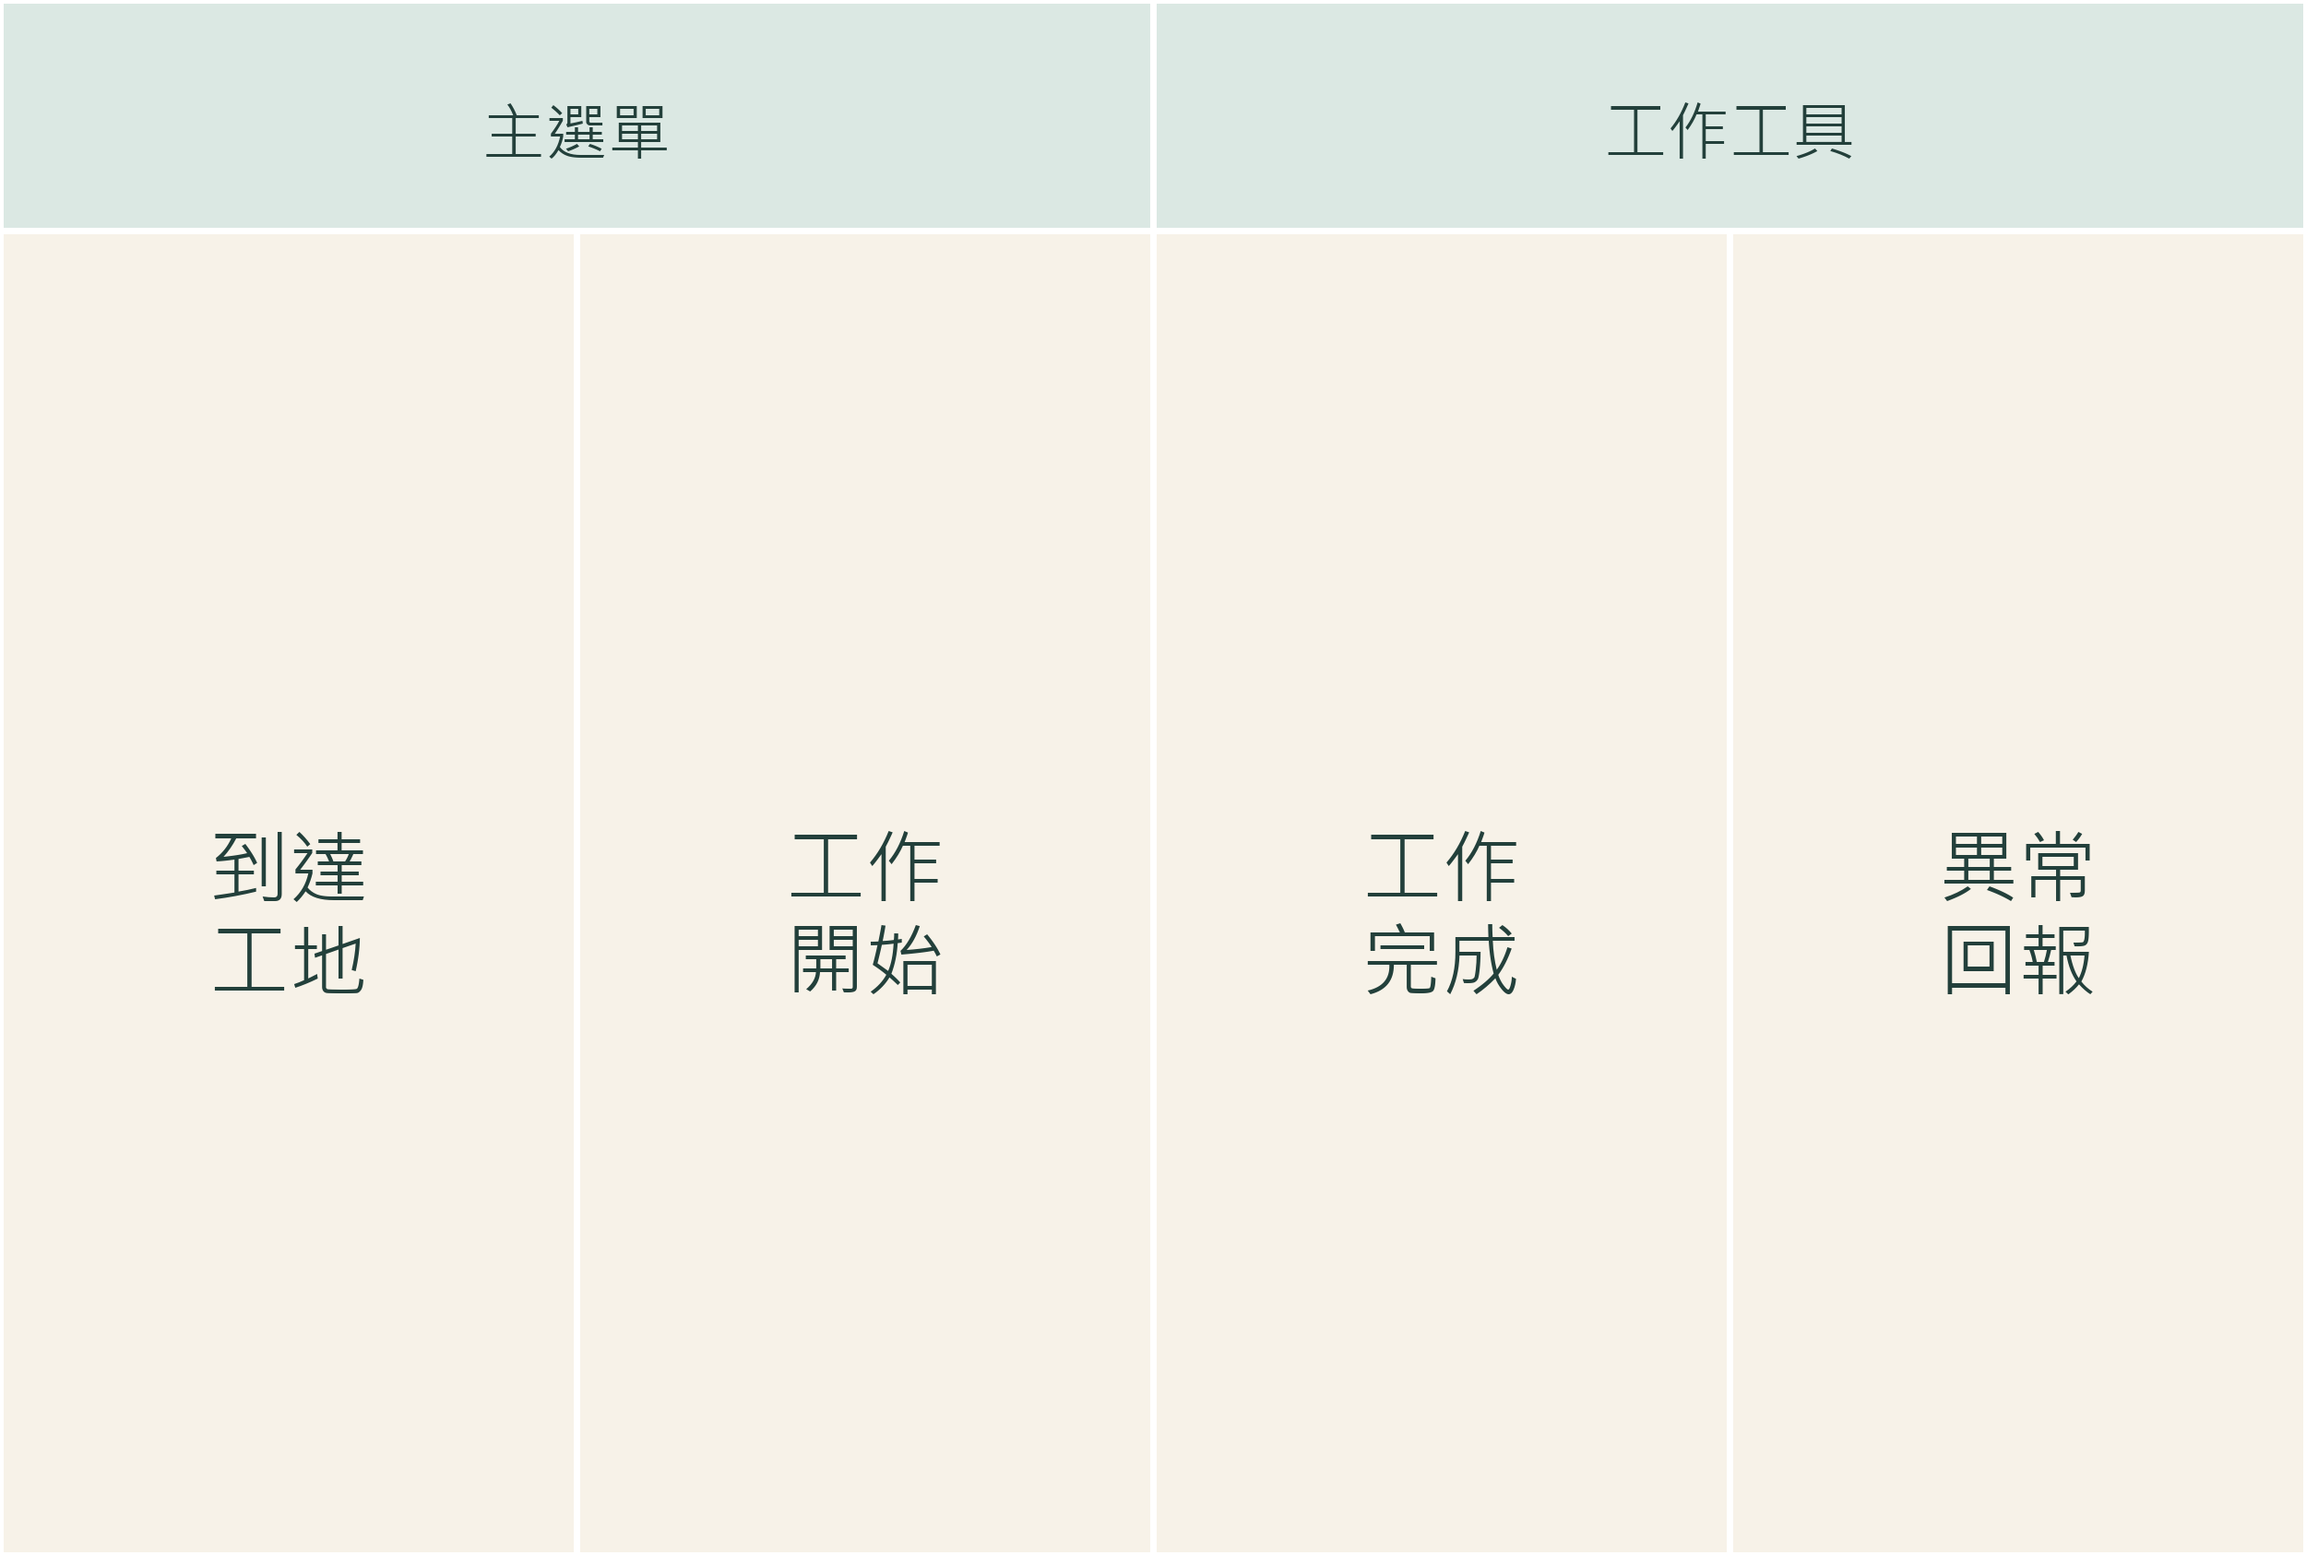
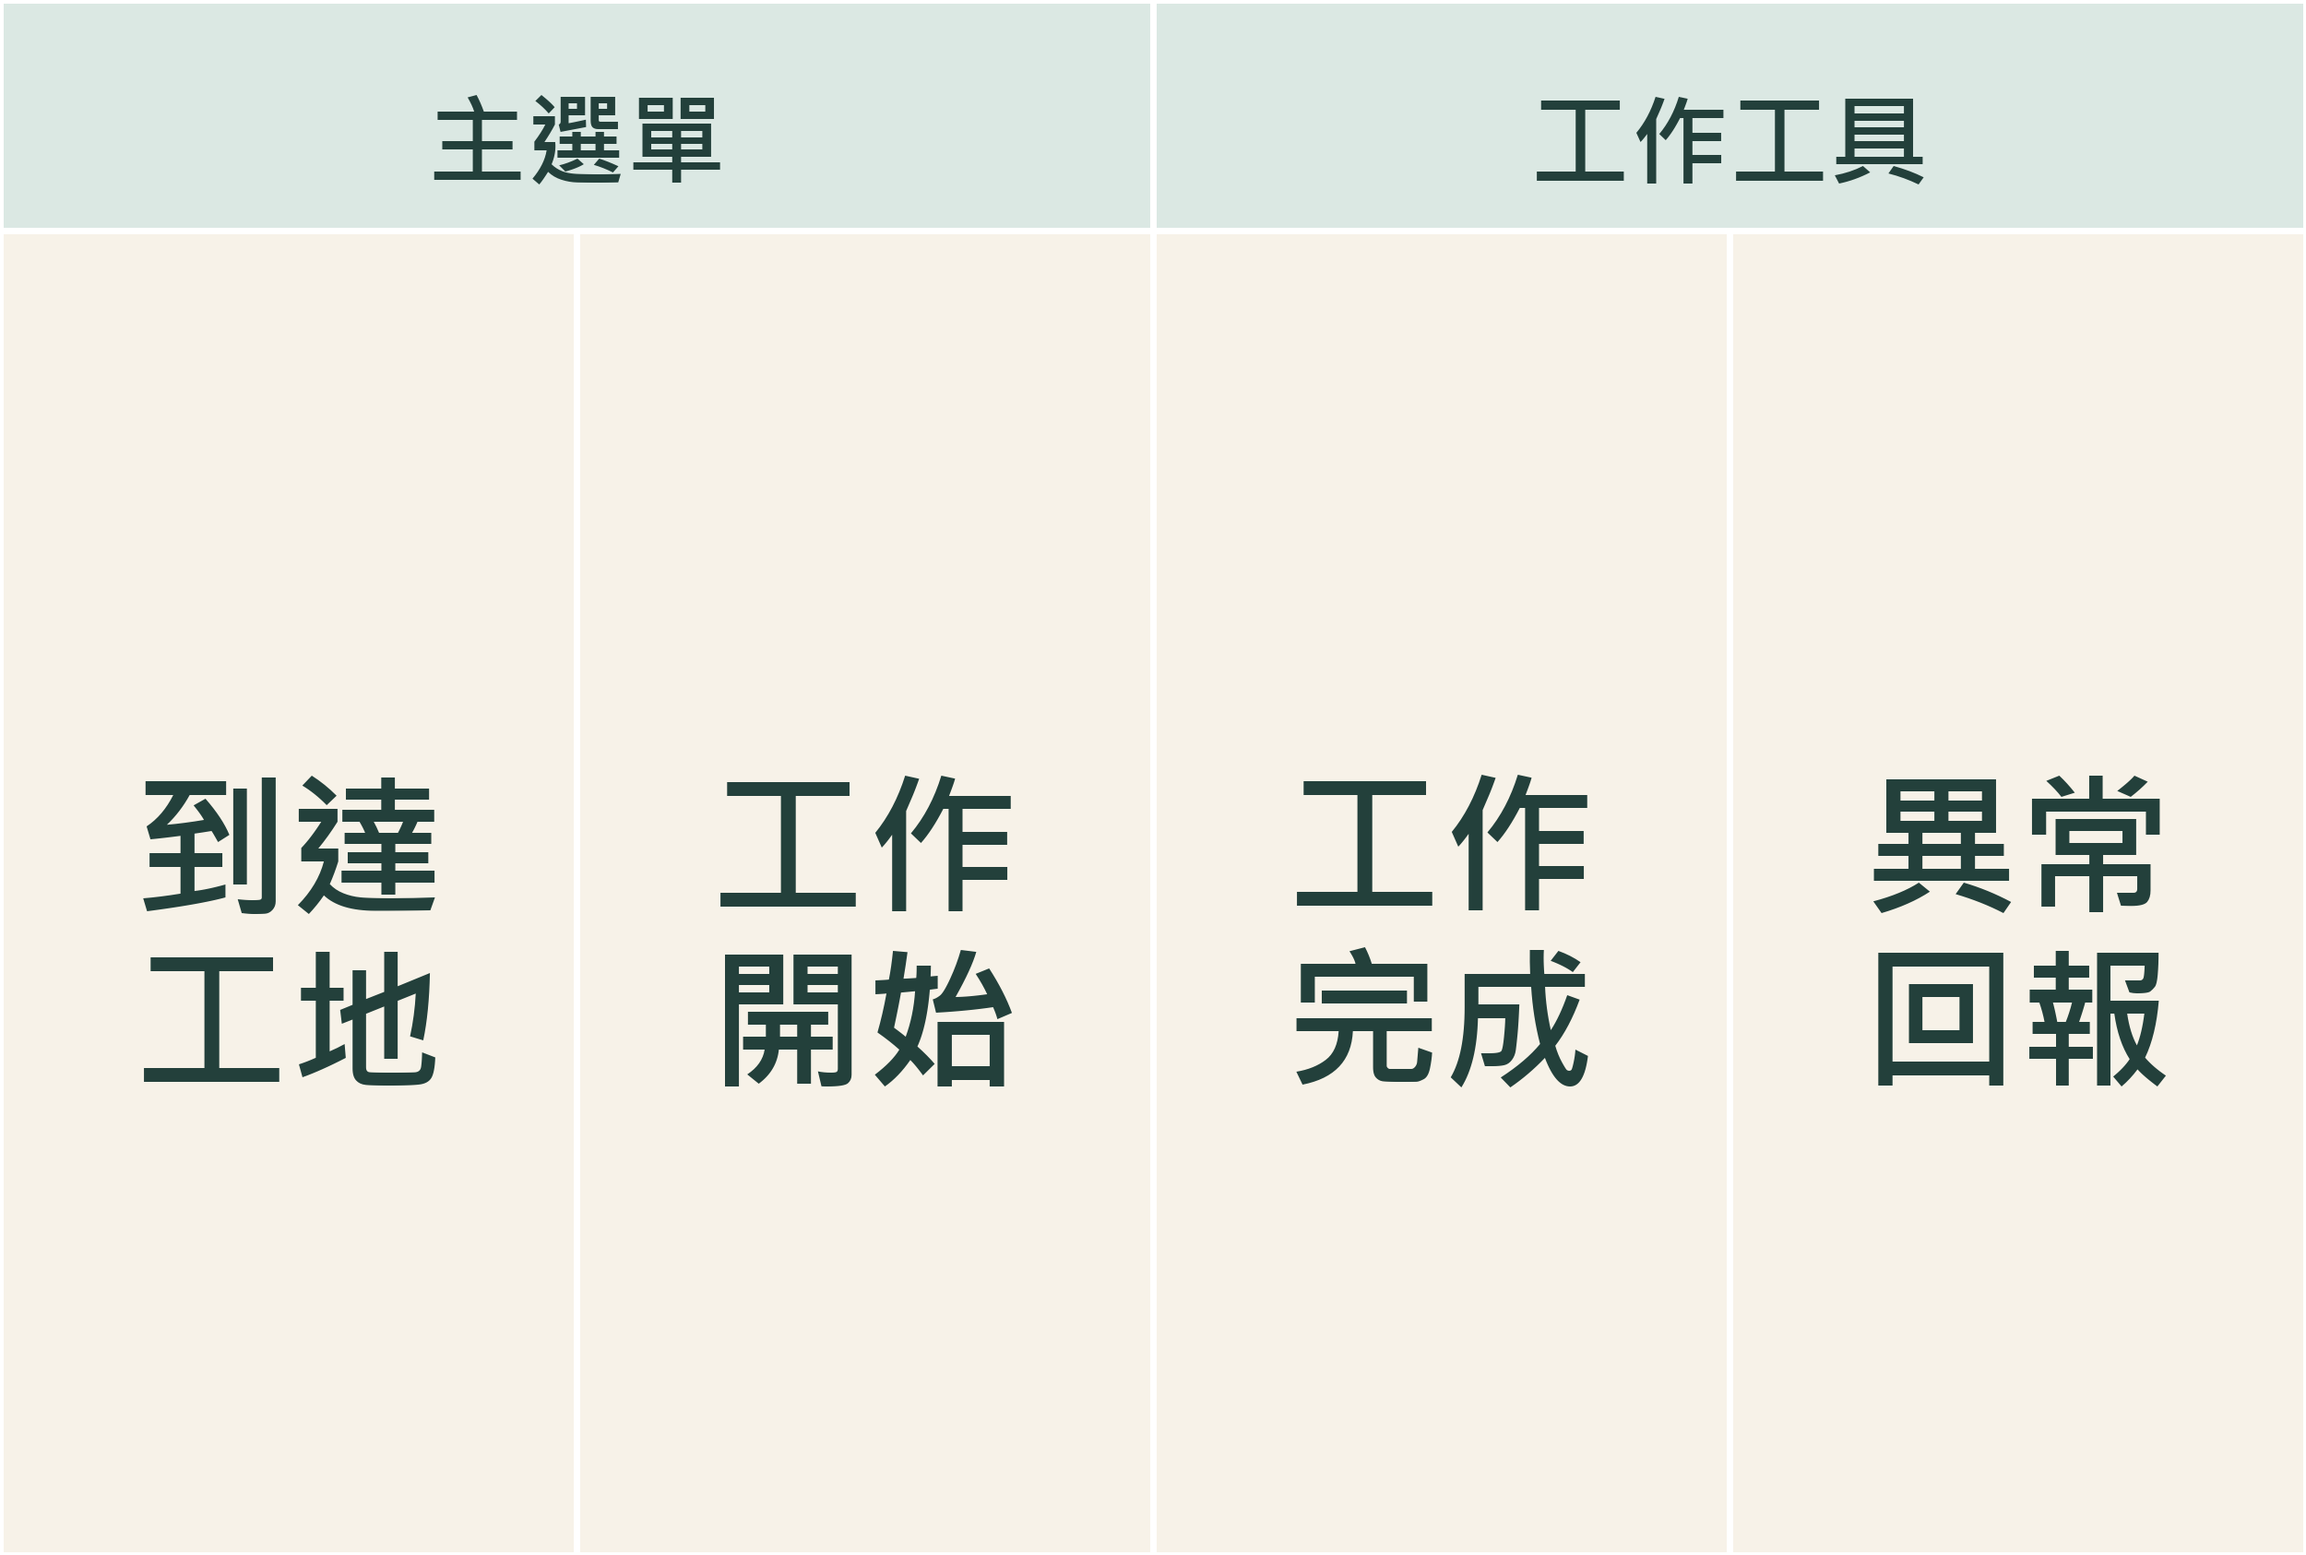
Enlarge LINE rich menu labels

diff --git a/backend/app/services/line_platform.py b/backend/app/services/line_platform.py
@@ -209,8 +209,10 @@ line_platform_service = LinePlatformService()
 
 def _load_font(size: int):
     font_candidates = [
+        Path("C:/Windows/Fonts/msjhbd.ttc"),
         Path("C:/Windows/Fonts/msjh.ttc"),
         Path("C:/Windows/Fonts/microsoftjhengheiui.ttf"),
+        Path("/usr/share/fonts/opentype/noto/NotoSansCJK-Bold.ttc"),
         Path("/usr/share/fonts/opentype/noto/NotoSansCJK-Regular.ttc"),
         Path("/usr/share/fonts/opentype/noto/NotoSerifCJK-Regular.ttc"),
         Path("/usr/share/fonts/truetype/noto/NotoSansCJK-Regular.ttc"),
@@ -256,8 +258,8 @@ def generate_default_rich_menu_images(
     column_width = width // 4
 
     font_title = _load_font(96)
-    font_tab = _load_font(68)
-    font_body = _load_font(86)
+    font_tab = _load_font(108)
+    font_body = _load_font(168)
 
     definitions = [
         (
